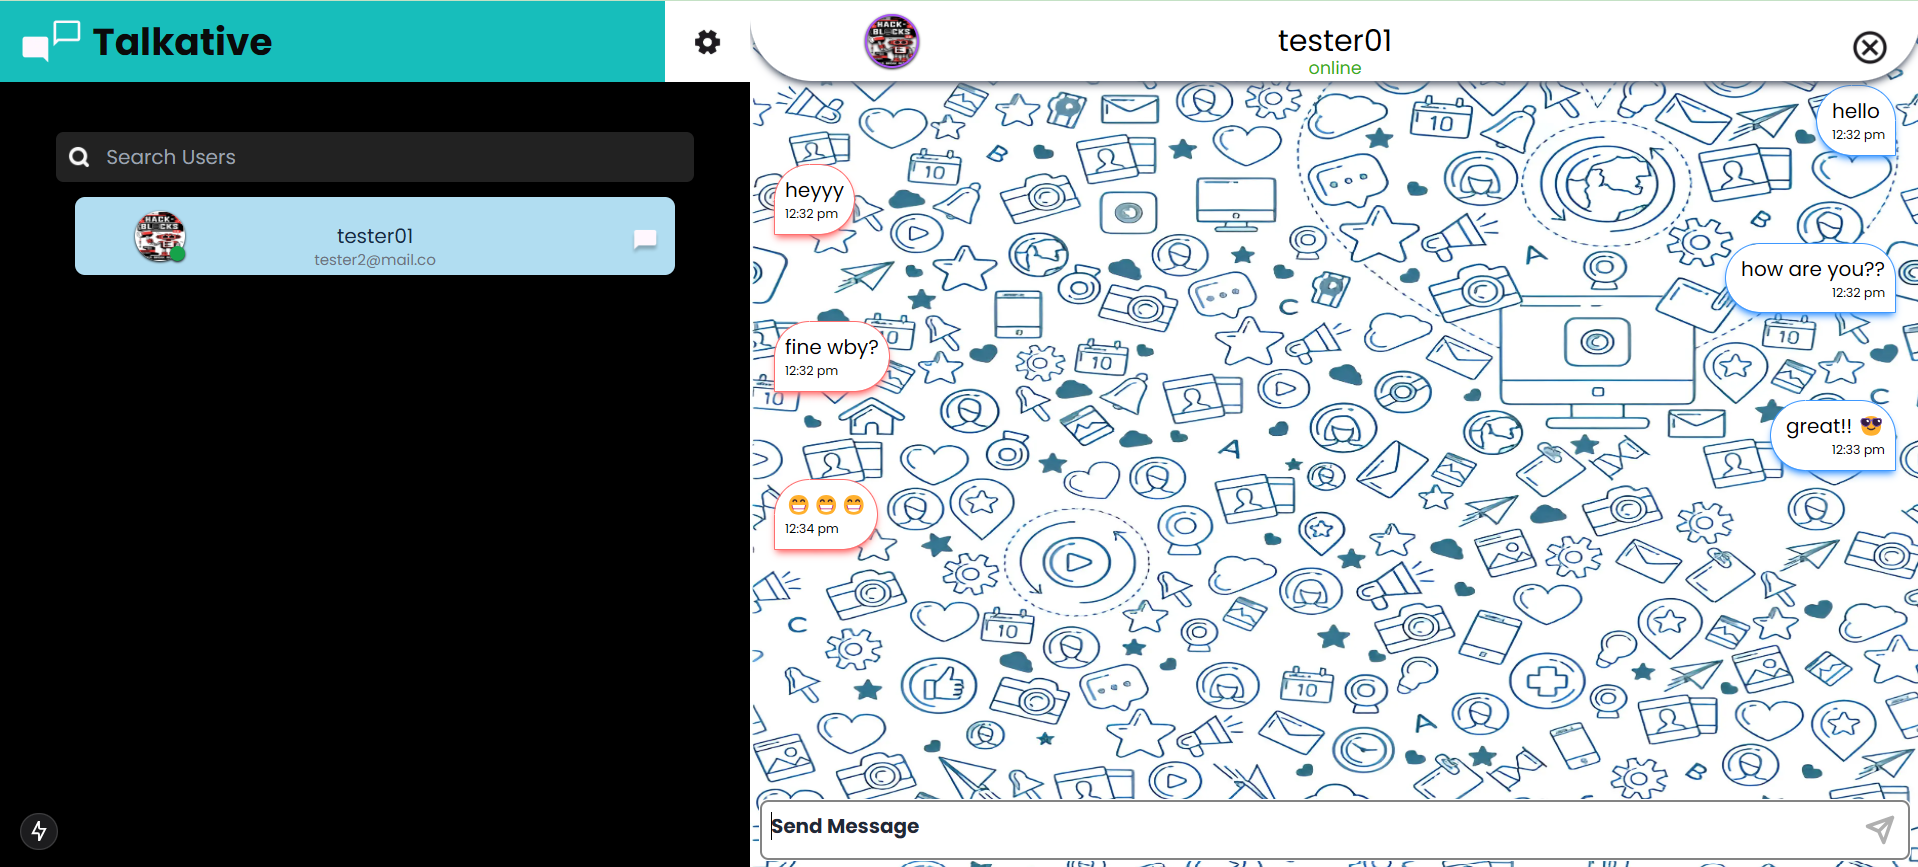
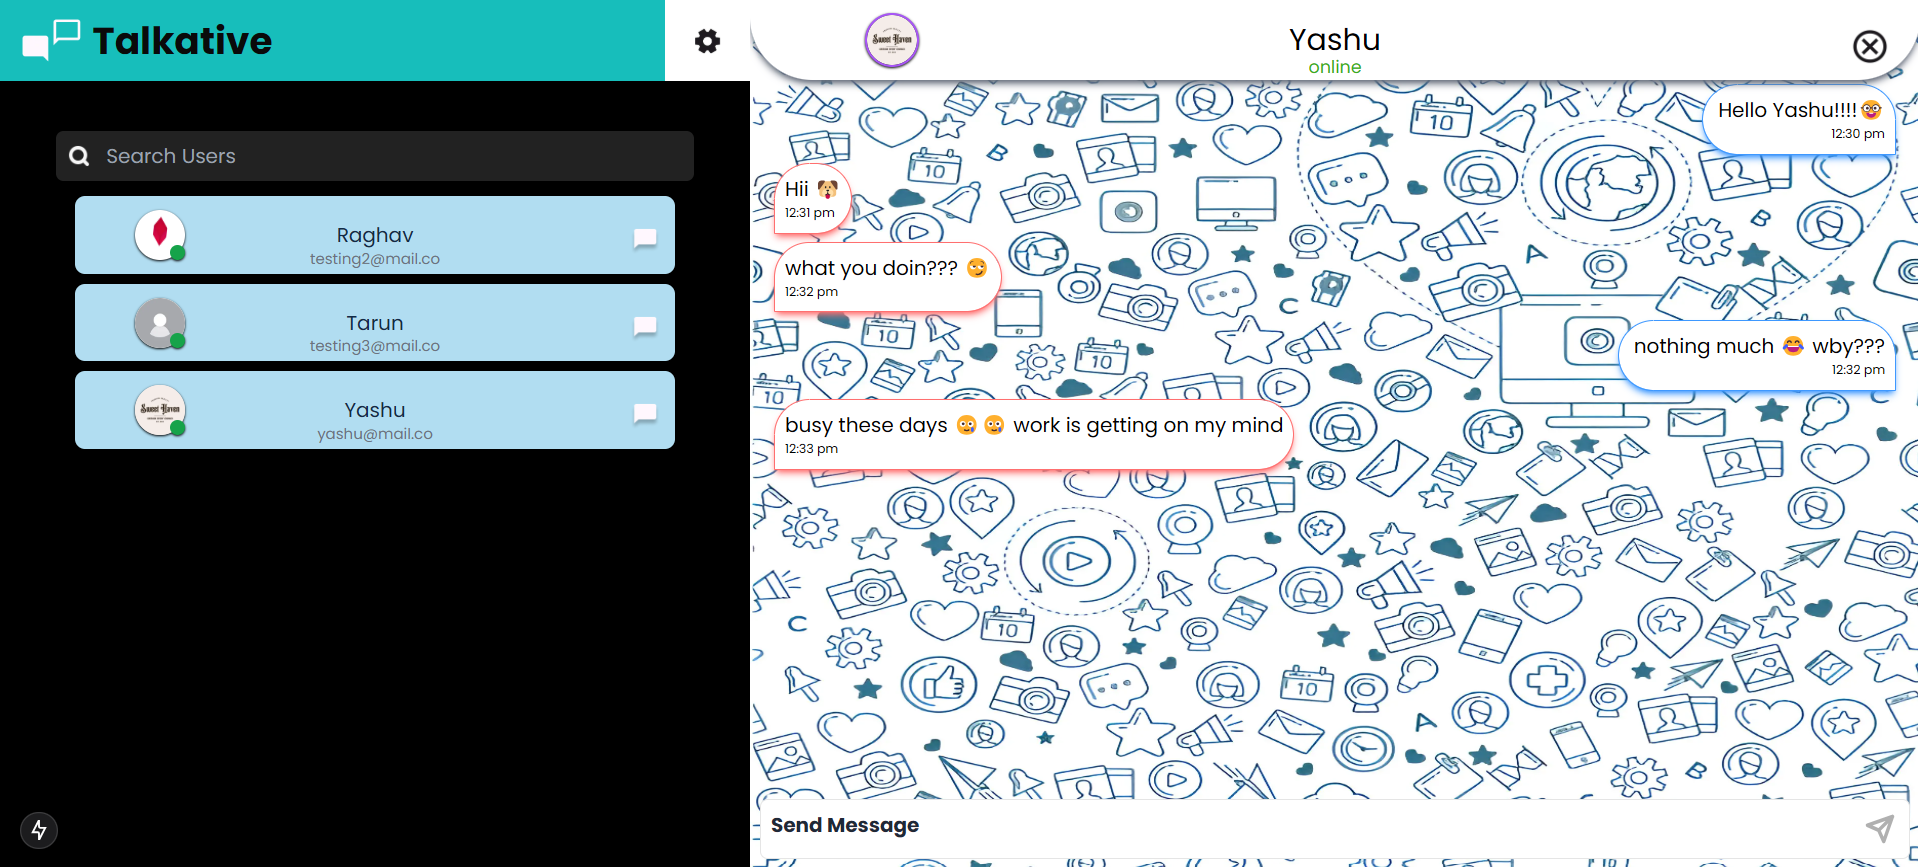
small fixes and done

diff --git a/app/(auth)/signup/page.tsx b/app/(auth)/signup/page.tsx
@@ -24,7 +24,6 @@ export default function Signup() {
 
     const onsubmit:SubmitHandler<formFields>=async(data)=>{
         data.avatar=preview?(preview as string):null
-        console.log(data)
         const loadingToast=toast.loading("Loading...",{dismissible:true})
        mutate(data,{
         onSuccess:(data)=>{
@@ -43,7 +42,6 @@ export default function Signup() {
         const file=new FileReader;
         
         file.onload=()=>{
-            console.log(acceptedFiles[0])
             setPreview(file.result)
         }
         file.readAsDataURL(acceptedFiles[0])
@@ -63,7 +61,7 @@ export default function Signup() {
       <div className="w-full h-full text-black relative md:w-1/2 md:h-full bg-gradient-to-r from-lime-500 via-green-500 to-sky-500 md:rounded-none">
       <div className="w-full h-full">
         <Image src={bg} alt="image" className="opacity-30 absolute -z-0 w-full h-full"/>
-        <form onSubmit={handleSubmit(onsubmit)} className="h-full flex flex-col items-center justify-around relative backdrop-blur-[1px]">
+        <form onSubmit={handleSubmit(onsubmit)} className="h-full flex flex-col items-center justify-around relative">
         <p className="text-4xl font-medium">Signup</p>
             <div className=" rounded-xl flex flex-col items-center justify-around h-[200px]">
             <div className="w-[130px] h-[130px] rounded-full overflow-hidden outline outline-2 outline-yellow-400">

diff --git a/app/chat/page.tsx b/app/chat/page.tsx
@@ -36,10 +36,19 @@ export default function Chat() {
     const [activeUsers,setActiveUsers]=useState<activeUsers[]>()
     const allUsersArr=useRef<activeUsers[]|null>(null) // for search functionality
     const observerDiv1=useRef<HTMLDivElement>(null)
-    const observerDiv2=useRef<HTMLDivElement>(null)    
+    const observerDiv2=useRef<HTMLDivElement>(null)
+    function expireToken(token:string) {
+        const tokenObj:any=jwt.decode(token)
+        const expiry=tokenObj?.exp*1000
+        return Date.now()>=expiry
+    }    
     useEffect(()=>{
         const token=sessionStorage.getItem("token")
-        if (!token) {
+        
+        if (expireToken(token as string)) {
+            sessionStorage.removeItem("token")
+        }
+        if (!sessionStorage.getItem("token") || !token) {
             requestAnimationFrame(()=>toast("No token found. Redirecting to home page"))
             router.push("/")
             return

diff --git a/app/(auth)/signin/page.tsx b/app/(auth)/signin/page.tsx
@@ -40,7 +40,7 @@ export default function Signin() {
       <div className="w-full h-full text-black relative md:w-1/2 md:h-full bg-gradient-to-r from-red-500 to-orange-500 md:rounded-none">
       <div className="w-full h-full">
       <Image src={bg} alt="image" className="opacity-30 absolute -z-0 w-full h-full"/>
-        <form onSubmit={handleSubmit(onsubmit)} className="h-full flex flex-col items-center justify-center gap-6 relative backdrop-blur-[1px]">
+        <form onSubmit={handleSubmit(onsubmit)} className="h-full flex flex-col items-center justify-center gap-6 relative">
             
             <p className="text-4xl font-medium">Signin</p>
             <div className="flex flex-col items-center justify-center gap-1">

diff --git a/app/myComponents/Topbar.tsx b/app/myComponents/Topbar.tsx
@@ -29,7 +29,6 @@ export default function Topbar() {
         currentName.current=decoded.username
     },[token.current])
     function setProfile() {
-        console.log("name")
         const decoded:any=jwt.decode(token.current as string)
         mutate({username,email:decoded?.email,avatar:myAvatar as string,publicId:decoded.publicId},{
             
@@ -55,7 +54,6 @@ export default function Topbar() {
             const file=new FileReader;
             
             file.onload=()=>{
-                console.log(acceptedFiles[0])
                 setMyAvatar(file.result as string)
             }
             file.readAsDataURL(acceptedFiles[0])

diff --git a/backend/src/index.ts b/backend/src/index.ts
@@ -95,7 +95,7 @@ app.post("/signup",async (req,res)=>{
                 avatar:avatarUrl,
                 publicId
             }})
-        const token=jwt.sign({email,username,avatar:user.avatar,publicId},process.env.SecretKey as string,{expiresIn:'24h'})
+        const token=jwt.sign({email,username,avatar:user.avatar,publicId},process.env.SecretKey as string,{expiresIn:'7d'})
         res.json({
             "msg":"Signed up successfully.",
             "token":token
